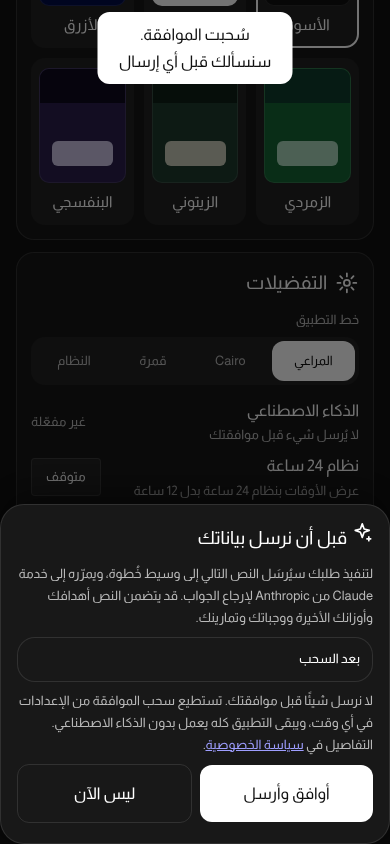
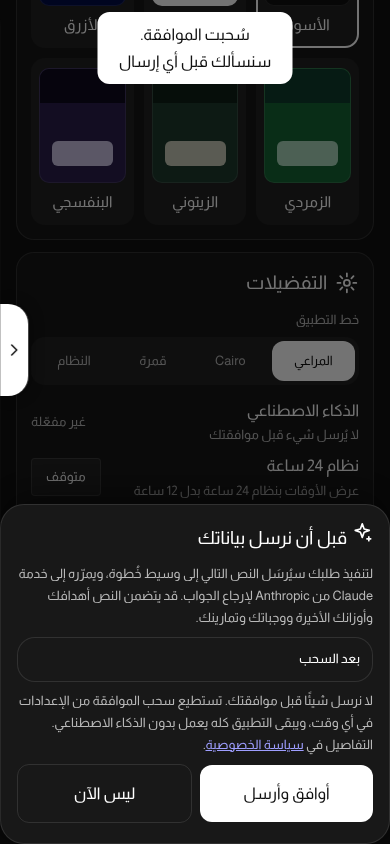
اختصاراتي: لوحة جانبية تُسحب من اليسار بحركة متدرجة مع تعديل الاختصارات
Claude-Session: https://claude.ai/code/session_01KyybtLNcTyHNYDyyNW1Vaq

Changed region(s): [[0.0, 0.3389, 0.0923, 0.4929]]

diff --git a/app/fitness-tracker.html b/app/fitness-tracker.html
@@ -1166,6 +1166,37 @@ html[data-sj] body .x2w .r i{border-style:dashed!important;opacity:.5}
 .sjnp .ico{width:26px;height:26px}
 .sjsr.cur input:focus{outline:0;box-shadow:0 0 0 3px color-mix(in srgb,var(--sj-tx) 30%,transparent)}
 .sjsr.cur input{-moz-appearance:textfield;appearance:textfield}.sjsr.cur input::-webkit-inner-spin-button,.sjsr.cur input::-webkit-outer-spin-button{-webkit-appearance:none;margin:0}
+
+/* ===== لوحة الاختصاراتي الجانبية ===== */
+.sjds{position:fixed;inset:0;z-index:84;background:#000;opacity:0;pointer-events:none;visibility:hidden}
+.sjdw{position:fixed;top:0;bottom:0;left:0;z-index:85;width:min(82vw,330px);--x:0;transform:translate3d(calc(-100% + var(--x)*1px),0,0);will-change:transform;background:var(--sj-s1);color:var(--sj-tx);border-inline-end:1px solid var(--sj-ln);border-radius:0 26px 26px 0;box-shadow:0 0 40px rgba(0,0,0,calc(.35*var(--p,0)));display:none;direction:rtl;touch-action:pan-y}
+.sjdw.show,.sjds.show{display:block}
+.sjds.show{visibility:visible}
+.sjdw.anim{transition:transform .45s cubic-bezier(.22,1.1,.3,1),box-shadow .45s ease}
+.sjds.anim{transition:opacity .4s ease}
+.sjdw .in{height:100%;overflow:auto;padding:calc(env(safe-area-inset-top,0px) + 16px) 14px calc(env(safe-area-inset-bottom,0px) + 90px);overscroll-behavior:contain}
+.sjdw .hd{display:flex;align-items:center;gap:8px;margin-bottom:16px}
+.sjdw .hd b{flex:1;font-size:20px}
+.sjdw .hd button{width:40px;height:40px;border-radius:50%;border:0;background:var(--sj-s2)!important;color:var(--sj-tx)!important;display:grid;place-items:center;padding:0}
+.sjdw .hd button.on{background:var(--sj-btn)!important;color:var(--sj-btnt)!important}
+.sjdw .gr{display:grid;grid-template-columns:1fr 1fr;gap:14px 10px}
+.sjdw .dt{position:relative;display:flex;flex-direction:column;align-items:center;gap:7px;background:none!important;border:0!important;color:var(--sj-tx)!important;font:600 13px/1.35 var(--sj-fa);text-align:center;padding:0!important;width:auto!important;height:auto!important;box-shadow:none!important}
+.sjdw .dt .fi{width:64px;height:64px;border-radius:20px;display:grid;place-items:center;background:var(--sj-s2);border:1.5px solid var(--sj-ln);transition:transform .15s ease}
+.sjdw .dt:active .fi{transform:scale(.94)}
+.sjdw .dt .fi .ico{width:30px;height:30px}
+.sjdw .dt.add .fi{border-style:dashed}
+.sjdw .dt .dx{position:absolute;top:-6px;inset-inline-end:calc(50% - 40px);width:24px;height:24px;border-radius:50%;background:#ef4444;color:#fff;display:grid;place-items:center;border:2px solid var(--sj-s1)}
+.sjdw .dt .dx .ico{width:13px;height:13px}
+.sjdw .dt .dx.pl{background:var(--sj-ok)}
+.sjdw .mv{display:flex;gap:6px}
+.sjdw .mv button{width:30px;height:26px;border-radius:9px;border:0;background:var(--sj-s2)!important;color:var(--sj-tx)!important;display:grid;place-items:center;padding:0}
+.sjdw .mv .ico{width:14px;height:14px}
+.sjdw .hint{color:var(--sj-mu);font-size:13px;margin:-6px 0 14px}
+.sjdh{position:absolute;left:100%;top:36%;width:28px;height:92px;margin:0;padding:0;border:0;border-radius:0 20px 20px 0;background:var(--sj-btn)!important;color:var(--sj-btnt)!important;display:grid;place-items:center;box-shadow:2px 0 14px rgba(0,0,0,.35);touch-action:none}
+.sjdh .ico{width:20px;height:20px;transform:rotate(calc(180deg*var(--p,0)));transition:none}
+.sjdh:after{content:"";position:absolute;inset:-14px -10px -14px 0}
+body.sjnodw .sjdw,body.sjnodw .sjds{display:none!important}
+@media (prefers-reduced-motion:reduce){.sjdw.anim,.sjds.anim{transition:none}}
 </style>
 
 <svg width="0" height="0" style="position:absolute" aria-hidden="true">
@@ -5518,6 +5549,41 @@ document.addEventListener('toggle',ev=>{const d=ev.target;if(d&&d.classList&&d.c
  document.addEventListener('pointerdown',e=>{const t=e.target;if(t&&(t.id==='wk-w'||t.id==='wk-r')&&e.pointerType!=='mouse-skip'){t.setAttribute('inputmode','none');open(t);return}
   if(np&&np.classList.contains('on')&&!np.contains(t))hide()},true);
  new MutationObserver(()=>{if(np&&np.classList.contains('on')&&!document.getElementById('wk-w'))hide()}).observe(document.body,{childList:true,subtree:true});
+})();
+
+
+/* ===== اختصاراتي: لوحة جانبية تُسحب من اليسار ===== */
+(()=>{
+ let W=300,x=0,drag=null,sup=0;const q=a=>document.querySelector(a);
+ const mk=()=>{let d=q('.sjdw');if(d)return d;
+  document.body.insertAdjacentHTML('beforeend','<div class="sjds" aria-hidden="true"></div><aside class="sjdw" role="dialog" aria-label="اختصاراتي"><div class="in"></div><button class="sjdh" type="button" aria-label="فتح اختصاراتي" aria-expanded="false">'+ic('back')+'</button></aside>');
+  const dw=q('.sjdw'),ds=q('.sjds'),h=q('.sjdh');
+  const down=e=>{if(e.button>0)return;W=dw.offsetWidth||300;drag={sx:e.clientX,sy:e.clientY,x0:x,lx:e.clientX,lt:performance.now(),v:0,on:false,id:e.pointerId,src:e.target};if(e.currentTarget===h){try{h.setPointerCapture(e.pointerId)}catch(_){}}};
+  const move=e=>{if(!drag||e.pointerId!==drag.id)return;const dx=e.clientX-drag.sx,dy=e.clientY-drag.sy;
+   if(!drag.on){if(Math.abs(dx)<8||Math.abs(dx)<Math.abs(dy)*1.3)return;drag.on=true;dw.classList.remove('anim');ds.classList.remove('anim');try{dw.setPointerCapture(e.pointerId)}catch(_){}}
+   const t=performance.now();drag.v=(e.clientX-drag.lx)/Math.max(1,t-drag.lt);drag.lx=e.clientX;drag.lt=t;set(drag.x0+dx)};
+  const up=e=>{if(!drag||e.pointerId!==drag.id)return;const g=drag;drag=null;
+   if(g.on){sup=Date.now();const open=g.v>.35?true:g.v<-.35?false:x>W*.45;fin(open)}
+   else if(g.src&&g.src.closest('.sjdh'))fin(x<W*.5);};
+  [h,dw,ds].forEach(el=>{el.addEventListener('pointerdown',down);el.addEventListener('pointermove',move);el.addEventListener('pointerup',up);el.addEventListener('pointercancel',()=>{if(drag){const g=drag;drag=null;fin(x>W*.5)}})});
+  ds.addEventListener('click',()=>{if(Date.now()-sup>250)fin(false)});
+  dw.addEventListener('click',e=>{if(Date.now()-sup<250){e.stopPropagation();e.preventDefault();return}
+   if(e.target.closest('.dt:not(.ed):not(.add):not([data-a=dwadd])')||e.target.closest('[data-a=dwx]'))setTimeout(()=>fin(false),0)},true);
+  document.addEventListener('keydown',e=>{if(e.key==='Escape'&&x>0)fin(false)});
+  return dw};
+ function set(v){const dw=mk(),ds=q('.sjds');x=Math.max(0,Math.min(W,v));const pr=W?x/W:0;dw.style.setProperty('--x',x);dw.style.setProperty('--p',pr);ds.style.opacity=(pr*.5).toFixed(3);
+  dw.classList.toggle('show',true);ds.classList.toggle('show',pr>0);q('.sjdh').setAttribute('aria-expanded',pr>.5?'true':'false')}
+ function fin(open){const dw=mk(),ds=q('.sjds');W=dw.offsetWidth||W;dw.classList.add('anim');ds.classList.add('anim');if(open)body();set(open?W:0);if(!open){ds.style.opacity=0;setTimeout(()=>{if(x===0)ds.classList.remove('show')},420)}}
+ function body(){const dw=mk(),ed=!!UI.dwEd,pk=!!UI.dwPick,sc=scList();let b;
+  if(pk){b='<div class="gr">'+FEATS.filter(f=>sc.indexOf(f.id)<0).map(f=>'<button class="dt" data-a="dwadd" data-id="'+f.id+'" type="button">'+fI(f)+'<span>'+f.t+'</span><i class="dx pl">'+ic('plus')+'</i></button>').join('')+'</div>'}
+  else b='<div class="gr">'+sc.map(id=>{const f=FD[id];return ed?'<div class="dt ed">'+fI(f)+'<span>'+f.t+'</span><i class="dx" data-a="scdel" data-id="'+id+'" role="button" aria-label="حذف">'+ic('x')+'</i><span class="mv"><button type="button" data-a="scmv" data-id="'+id+'" data-d="-1" aria-label="تقديم">'+ic('back')+'</button><button type="button" data-a="scmv" data-id="'+id+'" data-d="1" aria-label="تأخير">'+ic('next')+'</button></span></div>':'<button class="dt" type="button" '+fA(f)+'>'+fI(f)+'<span>'+f.t+'</span></button>'}).join('')+(ed?'<button class="dt add" type="button" data-a="dwpick"><span class="fi">'+ic('plus')+'</span><span>إضافة</span></button>':'')+'</div>';
+  dw.querySelector('.in').innerHTML='<div class="hd"><b>'+(pk?'أضف اختصارًا':'اختصاراتي')+'</b>'+(pk?'<button type="button" data-a="dwpick" aria-label="رجوع">'+ic('next')+'</button>':'<button type="button" class="'+(ed?'on':'')+'" data-a="dwed" aria-label="'+(ed?'تم':'تعديل الاختصارات')+'">'+ic(ed?'check':'gear')+'</button>')+'<button type="button" data-a="dwx" aria-label="إغلاق">'+ic('x')+'</button></div>'+(ed&&!pk?'<div class="hint">احذف أو غيّر الترتيب أو أضف.</div>':'')+b}
+ window.dwOpen=ed=>{mk();if(ed){UI.dwEd=true;UI.dwPick=false}W=q('.sjdw').offsetWidth||W;fin(true)};
+ window.dwClose=()=>{if(q('.sjdw'))fin(false)};
+ /* مزامنة المحتوى والإظهار بعد كل رسم */
+ const R=render;render=function(){R.apply(this,arguments);try{const dw=mk(),on=!!q('#nav .pill2')&&!q('.sjwel')&&S.sub!=='wk'&&!locked();document.body.classList.toggle('sjnodw',!on);if(on){if(!dw.classList.contains('show'))set(x);body()}else if(x>0)set(0)}catch(e){lg(e)}};
+ Object.assign(ACT,{drop:b=>{dwOpen(b.dataset.v==='edit');return false},dwed:()=>{UI.dwEd=!UI.dwEd;UI.dwPick=false},dwpick:()=>{UI.dwPick=!UI.dwPick},dwadd:b=>{const a=scList();if(a.indexOf(b.dataset.id)<0)a.push(b.dataset.id);S.sc=a;UI.dwPick=false;save();cmSyncSet()},dwx:()=>false});
+ render();
 })();
 
 (async()=>{

diff --git a/pwa/index.html b/pwa/index.html
@@ -1166,6 +1166,37 @@ html[data-sj] body .x2w .r i{border-style:dashed!important;opacity:.5}
 .sjnp .ico{width:26px;height:26px}
 .sjsr.cur input:focus{outline:0;box-shadow:0 0 0 3px color-mix(in srgb,var(--sj-tx) 30%,transparent)}
 .sjsr.cur input{-moz-appearance:textfield;appearance:textfield}.sjsr.cur input::-webkit-inner-spin-button,.sjsr.cur input::-webkit-outer-spin-button{-webkit-appearance:none;margin:0}
+
+/* ===== لوحة الاختصاراتي الجانبية ===== */
+.sjds{position:fixed;inset:0;z-index:84;background:#000;opacity:0;pointer-events:none;visibility:hidden}
+.sjdw{position:fixed;top:0;bottom:0;left:0;z-index:85;width:min(82vw,330px);--x:0;transform:translate3d(calc(-100% + var(--x)*1px),0,0);will-change:transform;background:var(--sj-s1);color:var(--sj-tx);border-inline-end:1px solid var(--sj-ln);border-radius:0 26px 26px 0;box-shadow:0 0 40px rgba(0,0,0,calc(.35*var(--p,0)));display:none;direction:rtl;touch-action:pan-y}
+.sjdw.show,.sjds.show{display:block}
+.sjds.show{visibility:visible}
+.sjdw.anim{transition:transform .45s cubic-bezier(.22,1.1,.3,1),box-shadow .45s ease}
+.sjds.anim{transition:opacity .4s ease}
+.sjdw .in{height:100%;overflow:auto;padding:calc(env(safe-area-inset-top,0px) + 16px) 14px calc(env(safe-area-inset-bottom,0px) + 90px);overscroll-behavior:contain}
+.sjdw .hd{display:flex;align-items:center;gap:8px;margin-bottom:16px}
+.sjdw .hd b{flex:1;font-size:20px}
+.sjdw .hd button{width:40px;height:40px;border-radius:50%;border:0;background:var(--sj-s2)!important;color:var(--sj-tx)!important;display:grid;place-items:center;padding:0}
+.sjdw .hd button.on{background:var(--sj-btn)!important;color:var(--sj-btnt)!important}
+.sjdw .gr{display:grid;grid-template-columns:1fr 1fr;gap:14px 10px}
+.sjdw .dt{position:relative;display:flex;flex-direction:column;align-items:center;gap:7px;background:none!important;border:0!important;color:var(--sj-tx)!important;font:600 13px/1.35 var(--sj-fa);text-align:center;padding:0!important;width:auto!important;height:auto!important;box-shadow:none!important}
+.sjdw .dt .fi{width:64px;height:64px;border-radius:20px;display:grid;place-items:center;background:var(--sj-s2);border:1.5px solid var(--sj-ln);transition:transform .15s ease}
+.sjdw .dt:active .fi{transform:scale(.94)}
+.sjdw .dt .fi .ico{width:30px;height:30px}
+.sjdw .dt.add .fi{border-style:dashed}
+.sjdw .dt .dx{position:absolute;top:-6px;inset-inline-end:calc(50% - 40px);width:24px;height:24px;border-radius:50%;background:#ef4444;color:#fff;display:grid;place-items:center;border:2px solid var(--sj-s1)}
+.sjdw .dt .dx .ico{width:13px;height:13px}
+.sjdw .dt .dx.pl{background:var(--sj-ok)}
+.sjdw .mv{display:flex;gap:6px}
+.sjdw .mv button{width:30px;height:26px;border-radius:9px;border:0;background:var(--sj-s2)!important;color:var(--sj-tx)!important;display:grid;place-items:center;padding:0}
+.sjdw .mv .ico{width:14px;height:14px}
+.sjdw .hint{color:var(--sj-mu);font-size:13px;margin:-6px 0 14px}
+.sjdh{position:absolute;left:100%;top:36%;width:28px;height:92px;margin:0;padding:0;border:0;border-radius:0 20px 20px 0;background:var(--sj-btn)!important;color:var(--sj-btnt)!important;display:grid;place-items:center;box-shadow:2px 0 14px rgba(0,0,0,.35);touch-action:none}
+.sjdh .ico{width:20px;height:20px;transform:rotate(calc(180deg*var(--p,0)));transition:none}
+.sjdh:after{content:"";position:absolute;inset:-14px -10px -14px 0}
+body.sjnodw .sjdw,body.sjnodw .sjds{display:none!important}
+@media (prefers-reduced-motion:reduce){.sjdw.anim,.sjds.anim{transition:none}}
 </style>
 <script src="config.js"></script>
 
@@ -5519,6 +5550,41 @@ document.addEventListener('toggle',ev=>{const d=ev.target;if(d&&d.classList&&d.c
  document.addEventListener('pointerdown',e=>{const t=e.target;if(t&&(t.id==='wk-w'||t.id==='wk-r')&&e.pointerType!=='mouse-skip'){t.setAttribute('inputmode','none');open(t);return}
   if(np&&np.classList.contains('on')&&!np.contains(t))hide()},true);
  new MutationObserver(()=>{if(np&&np.classList.contains('on')&&!document.getElementById('wk-w'))hide()}).observe(document.body,{childList:true,subtree:true});
+})();
+
+
+/* ===== اختصاراتي: لوحة جانبية تُسحب من اليسار ===== */
+(()=>{
+ let W=300,x=0,drag=null,sup=0;const q=a=>document.querySelector(a);
+ const mk=()=>{let d=q('.sjdw');if(d)return d;
+  document.body.insertAdjacentHTML('beforeend','<div class="sjds" aria-hidden="true"></div><aside class="sjdw" role="dialog" aria-label="اختصاراتي"><div class="in"></div><button class="sjdh" type="button" aria-label="فتح اختصاراتي" aria-expanded="false">'+ic('back')+'</button></aside>');
+  const dw=q('.sjdw'),ds=q('.sjds'),h=q('.sjdh');
+  const down=e=>{if(e.button>0)return;W=dw.offsetWidth||300;drag={sx:e.clientX,sy:e.clientY,x0:x,lx:e.clientX,lt:performance.now(),v:0,on:false,id:e.pointerId,src:e.target};if(e.currentTarget===h){try{h.setPointerCapture(e.pointerId)}catch(_){}}};
+  const move=e=>{if(!drag||e.pointerId!==drag.id)return;const dx=e.clientX-drag.sx,dy=e.clientY-drag.sy;
+   if(!drag.on){if(Math.abs(dx)<8||Math.abs(dx)<Math.abs(dy)*1.3)return;drag.on=true;dw.classList.remove('anim');ds.classList.remove('anim');try{dw.setPointerCapture(e.pointerId)}catch(_){}}
+   const t=performance.now();drag.v=(e.clientX-drag.lx)/Math.max(1,t-drag.lt);drag.lx=e.clientX;drag.lt=t;set(drag.x0+dx)};
+  const up=e=>{if(!drag||e.pointerId!==drag.id)return;const g=drag;drag=null;
+   if(g.on){sup=Date.now();const open=g.v>.35?true:g.v<-.35?false:x>W*.45;fin(open)}
+   else if(g.src&&g.src.closest('.sjdh'))fin(x<W*.5);};
+  [h,dw,ds].forEach(el=>{el.addEventListener('pointerdown',down);el.addEventListener('pointermove',move);el.addEventListener('pointerup',up);el.addEventListener('pointercancel',()=>{if(drag){const g=drag;drag=null;fin(x>W*.5)}})});
+  ds.addEventListener('click',()=>{if(Date.now()-sup>250)fin(false)});
+  dw.addEventListener('click',e=>{if(Date.now()-sup<250){e.stopPropagation();e.preventDefault();return}
+   if(e.target.closest('.dt:not(.ed):not(.add):not([data-a=dwadd])')||e.target.closest('[data-a=dwx]'))setTimeout(()=>fin(false),0)},true);
+  document.addEventListener('keydown',e=>{if(e.key==='Escape'&&x>0)fin(false)});
+  return dw};
+ function set(v){const dw=mk(),ds=q('.sjds');x=Math.max(0,Math.min(W,v));const pr=W?x/W:0;dw.style.setProperty('--x',x);dw.style.setProperty('--p',pr);ds.style.opacity=(pr*.5).toFixed(3);
+  dw.classList.toggle('show',true);ds.classList.toggle('show',pr>0);q('.sjdh').setAttribute('aria-expanded',pr>.5?'true':'false')}
+ function fin(open){const dw=mk(),ds=q('.sjds');W=dw.offsetWidth||W;dw.classList.add('anim');ds.classList.add('anim');if(open)body();set(open?W:0);if(!open){ds.style.opacity=0;setTimeout(()=>{if(x===0)ds.classList.remove('show')},420)}}
+ function body(){const dw=mk(),ed=!!UI.dwEd,pk=!!UI.dwPick,sc=scList();let b;
+  if(pk){b='<div class="gr">'+FEATS.filter(f=>sc.indexOf(f.id)<0).map(f=>'<button class="dt" data-a="dwadd" data-id="'+f.id+'" type="button">'+fI(f)+'<span>'+f.t+'</span><i class="dx pl">'+ic('plus')+'</i></button>').join('')+'</div>'}
+  else b='<div class="gr">'+sc.map(id=>{const f=FD[id];return ed?'<div class="dt ed">'+fI(f)+'<span>'+f.t+'</span><i class="dx" data-a="scdel" data-id="'+id+'" role="button" aria-label="حذف">'+ic('x')+'</i><span class="mv"><button type="button" data-a="scmv" data-id="'+id+'" data-d="-1" aria-label="تقديم">'+ic('back')+'</button><button type="button" data-a="scmv" data-id="'+id+'" data-d="1" aria-label="تأخير">'+ic('next')+'</button></span></div>':'<button class="dt" type="button" '+fA(f)+'>'+fI(f)+'<span>'+f.t+'</span></button>'}).join('')+(ed?'<button class="dt add" type="button" data-a="dwpick"><span class="fi">'+ic('plus')+'</span><span>إضافة</span></button>':'')+'</div>';
+  dw.querySelector('.in').innerHTML='<div class="hd"><b>'+(pk?'أضف اختصارًا':'اختصاراتي')+'</b>'+(pk?'<button type="button" data-a="dwpick" aria-label="رجوع">'+ic('next')+'</button>':'<button type="button" class="'+(ed?'on':'')+'" data-a="dwed" aria-label="'+(ed?'تم':'تعديل الاختصارات')+'">'+ic(ed?'check':'gear')+'</button>')+'<button type="button" data-a="dwx" aria-label="إغلاق">'+ic('x')+'</button></div>'+(ed&&!pk?'<div class="hint">احذف أو غيّر الترتيب أو أضف.</div>':'')+b}
+ window.dwOpen=ed=>{mk();if(ed){UI.dwEd=true;UI.dwPick=false}W=q('.sjdw').offsetWidth||W;fin(true)};
+ window.dwClose=()=>{if(q('.sjdw'))fin(false)};
+ /* مزامنة المحتوى والإظهار بعد كل رسم */
+ const R=render;render=function(){R.apply(this,arguments);try{const dw=mk(),on=!!q('#nav .pill2')&&!q('.sjwel')&&S.sub!=='wk'&&!locked();document.body.classList.toggle('sjnodw',!on);if(on){if(!dw.classList.contains('show'))set(x);body()}else if(x>0)set(0)}catch(e){lg(e)}};
+ Object.assign(ACT,{drop:b=>{dwOpen(b.dataset.v==='edit');return false},dwed:()=>{UI.dwEd=!UI.dwEd;UI.dwPick=false},dwpick:()=>{UI.dwPick=!UI.dwPick},dwadd:b=>{const a=scList();if(a.indexOf(b.dataset.id)<0)a.push(b.dataset.id);S.sc=a;UI.dwPick=false;save();cmSyncSet()},dwx:()=>false});
+ render();
 })();
 
 (async()=>{

diff --git a/www/index.html b/www/index.html
@@ -1166,6 +1166,37 @@ html[data-sj] body .x2w .r i{border-style:dashed!important;opacity:.5}
 .sjnp .ico{width:26px;height:26px}
 .sjsr.cur input:focus{outline:0;box-shadow:0 0 0 3px color-mix(in srgb,var(--sj-tx) 30%,transparent)}
 .sjsr.cur input{-moz-appearance:textfield;appearance:textfield}.sjsr.cur input::-webkit-inner-spin-button,.sjsr.cur input::-webkit-outer-spin-button{-webkit-appearance:none;margin:0}
+
+/* ===== لوحة الاختصاراتي الجانبية ===== */
+.sjds{position:fixed;inset:0;z-index:84;background:#000;opacity:0;pointer-events:none;visibility:hidden}
+.sjdw{position:fixed;top:0;bottom:0;left:0;z-index:85;width:min(82vw,330px);--x:0;transform:translate3d(calc(-100% + var(--x)*1px),0,0);will-change:transform;background:var(--sj-s1);color:var(--sj-tx);border-inline-end:1px solid var(--sj-ln);border-radius:0 26px 26px 0;box-shadow:0 0 40px rgba(0,0,0,calc(.35*var(--p,0)));display:none;direction:rtl;touch-action:pan-y}
+.sjdw.show,.sjds.show{display:block}
+.sjds.show{visibility:visible}
+.sjdw.anim{transition:transform .45s cubic-bezier(.22,1.1,.3,1),box-shadow .45s ease}
+.sjds.anim{transition:opacity .4s ease}
+.sjdw .in{height:100%;overflow:auto;padding:calc(env(safe-area-inset-top,0px) + 16px) 14px calc(env(safe-area-inset-bottom,0px) + 90px);overscroll-behavior:contain}
+.sjdw .hd{display:flex;align-items:center;gap:8px;margin-bottom:16px}
+.sjdw .hd b{flex:1;font-size:20px}
+.sjdw .hd button{width:40px;height:40px;border-radius:50%;border:0;background:var(--sj-s2)!important;color:var(--sj-tx)!important;display:grid;place-items:center;padding:0}
+.sjdw .hd button.on{background:var(--sj-btn)!important;color:var(--sj-btnt)!important}
+.sjdw .gr{display:grid;grid-template-columns:1fr 1fr;gap:14px 10px}
+.sjdw .dt{position:relative;display:flex;flex-direction:column;align-items:center;gap:7px;background:none!important;border:0!important;color:var(--sj-tx)!important;font:600 13px/1.35 var(--sj-fa);text-align:center;padding:0!important;width:auto!important;height:auto!important;box-shadow:none!important}
+.sjdw .dt .fi{width:64px;height:64px;border-radius:20px;display:grid;place-items:center;background:var(--sj-s2);border:1.5px solid var(--sj-ln);transition:transform .15s ease}
+.sjdw .dt:active .fi{transform:scale(.94)}
+.sjdw .dt .fi .ico{width:30px;height:30px}
+.sjdw .dt.add .fi{border-style:dashed}
+.sjdw .dt .dx{position:absolute;top:-6px;inset-inline-end:calc(50% - 40px);width:24px;height:24px;border-radius:50%;background:#ef4444;color:#fff;display:grid;place-items:center;border:2px solid var(--sj-s1)}
+.sjdw .dt .dx .ico{width:13px;height:13px}
+.sjdw .dt .dx.pl{background:var(--sj-ok)}
+.sjdw .mv{display:flex;gap:6px}
+.sjdw .mv button{width:30px;height:26px;border-radius:9px;border:0;background:var(--sj-s2)!important;color:var(--sj-tx)!important;display:grid;place-items:center;padding:0}
+.sjdw .mv .ico{width:14px;height:14px}
+.sjdw .hint{color:var(--sj-mu);font-size:13px;margin:-6px 0 14px}
+.sjdh{position:absolute;left:100%;top:36%;width:28px;height:92px;margin:0;padding:0;border:0;border-radius:0 20px 20px 0;background:var(--sj-btn)!important;color:var(--sj-btnt)!important;display:grid;place-items:center;box-shadow:2px 0 14px rgba(0,0,0,.35);touch-action:none}
+.sjdh .ico{width:20px;height:20px;transform:rotate(calc(180deg*var(--p,0)));transition:none}
+.sjdh:after{content:"";position:absolute;inset:-14px -10px -14px 0}
+body.sjnodw .sjdw,body.sjnodw .sjds{display:none!important}
+@media (prefers-reduced-motion:reduce){.sjdw.anim,.sjds.anim{transition:none}}
 </style>
 <script src="config.js"></script>
 
@@ -5519,6 +5550,41 @@ document.addEventListener('toggle',ev=>{const d=ev.target;if(d&&d.classList&&d.c
  document.addEventListener('pointerdown',e=>{const t=e.target;if(t&&(t.id==='wk-w'||t.id==='wk-r')&&e.pointerType!=='mouse-skip'){t.setAttribute('inputmode','none');open(t);return}
   if(np&&np.classList.contains('on')&&!np.contains(t))hide()},true);
  new MutationObserver(()=>{if(np&&np.classList.contains('on')&&!document.getElementById('wk-w'))hide()}).observe(document.body,{childList:true,subtree:true});
+})();
+
+
+/* ===== اختصاراتي: لوحة جانبية تُسحب من اليسار ===== */
+(()=>{
+ let W=300,x=0,drag=null,sup=0;const q=a=>document.querySelector(a);
+ const mk=()=>{let d=q('.sjdw');if(d)return d;
+  document.body.insertAdjacentHTML('beforeend','<div class="sjds" aria-hidden="true"></div><aside class="sjdw" role="dialog" aria-label="اختصاراتي"><div class="in"></div><button class="sjdh" type="button" aria-label="فتح اختصاراتي" aria-expanded="false">'+ic('back')+'</button></aside>');
+  const dw=q('.sjdw'),ds=q('.sjds'),h=q('.sjdh');
+  const down=e=>{if(e.button>0)return;W=dw.offsetWidth||300;drag={sx:e.clientX,sy:e.clientY,x0:x,lx:e.clientX,lt:performance.now(),v:0,on:false,id:e.pointerId,src:e.target};if(e.currentTarget===h){try{h.setPointerCapture(e.pointerId)}catch(_){}}};
+  const move=e=>{if(!drag||e.pointerId!==drag.id)return;const dx=e.clientX-drag.sx,dy=e.clientY-drag.sy;
+   if(!drag.on){if(Math.abs(dx)<8||Math.abs(dx)<Math.abs(dy)*1.3)return;drag.on=true;dw.classList.remove('anim');ds.classList.remove('anim');try{dw.setPointerCapture(e.pointerId)}catch(_){}}
+   const t=performance.now();drag.v=(e.clientX-drag.lx)/Math.max(1,t-drag.lt);drag.lx=e.clientX;drag.lt=t;set(drag.x0+dx)};
+  const up=e=>{if(!drag||e.pointerId!==drag.id)return;const g=drag;drag=null;
+   if(g.on){sup=Date.now();const open=g.v>.35?true:g.v<-.35?false:x>W*.45;fin(open)}
+   else if(g.src&&g.src.closest('.sjdh'))fin(x<W*.5);};
+  [h,dw,ds].forEach(el=>{el.addEventListener('pointerdown',down);el.addEventListener('pointermove',move);el.addEventListener('pointerup',up);el.addEventListener('pointercancel',()=>{if(drag){const g=drag;drag=null;fin(x>W*.5)}})});
+  ds.addEventListener('click',()=>{if(Date.now()-sup>250)fin(false)});
+  dw.addEventListener('click',e=>{if(Date.now()-sup<250){e.stopPropagation();e.preventDefault();return}
+   if(e.target.closest('.dt:not(.ed):not(.add):not([data-a=dwadd])')||e.target.closest('[data-a=dwx]'))setTimeout(()=>fin(false),0)},true);
+  document.addEventListener('keydown',e=>{if(e.key==='Escape'&&x>0)fin(false)});
+  return dw};
+ function set(v){const dw=mk(),ds=q('.sjds');x=Math.max(0,Math.min(W,v));const pr=W?x/W:0;dw.style.setProperty('--x',x);dw.style.setProperty('--p',pr);ds.style.opacity=(pr*.5).toFixed(3);
+  dw.classList.toggle('show',true);ds.classList.toggle('show',pr>0);q('.sjdh').setAttribute('aria-expanded',pr>.5?'true':'false')}
+ function fin(open){const dw=mk(),ds=q('.sjds');W=dw.offsetWidth||W;dw.classList.add('anim');ds.classList.add('anim');if(open)body();set(open?W:0);if(!open){ds.style.opacity=0;setTimeout(()=>{if(x===0)ds.classList.remove('show')},420)}}
+ function body(){const dw=mk(),ed=!!UI.dwEd,pk=!!UI.dwPick,sc=scList();let b;
+  if(pk){b='<div class="gr">'+FEATS.filter(f=>sc.indexOf(f.id)<0).map(f=>'<button class="dt" data-a="dwadd" data-id="'+f.id+'" type="button">'+fI(f)+'<span>'+f.t+'</span><i class="dx pl">'+ic('plus')+'</i></button>').join('')+'</div>'}
+  else b='<div class="gr">'+sc.map(id=>{const f=FD[id];return ed?'<div class="dt ed">'+fI(f)+'<span>'+f.t+'</span><i class="dx" data-a="scdel" data-id="'+id+'" role="button" aria-label="حذف">'+ic('x')+'</i><span class="mv"><button type="button" data-a="scmv" data-id="'+id+'" data-d="-1" aria-label="تقديم">'+ic('back')+'</button><button type="button" data-a="scmv" data-id="'+id+'" data-d="1" aria-label="تأخير">'+ic('next')+'</button></span></div>':'<button class="dt" type="button" '+fA(f)+'>'+fI(f)+'<span>'+f.t+'</span></button>'}).join('')+(ed?'<button class="dt add" type="button" data-a="dwpick"><span class="fi">'+ic('plus')+'</span><span>إضافة</span></button>':'')+'</div>';
+  dw.querySelector('.in').innerHTML='<div class="hd"><b>'+(pk?'أضف اختصارًا':'اختصاراتي')+'</b>'+(pk?'<button type="button" data-a="dwpick" aria-label="رجوع">'+ic('next')+'</button>':'<button type="button" class="'+(ed?'on':'')+'" data-a="dwed" aria-label="'+(ed?'تم':'تعديل الاختصارات')+'">'+ic(ed?'check':'gear')+'</button>')+'<button type="button" data-a="dwx" aria-label="إغلاق">'+ic('x')+'</button></div>'+(ed&&!pk?'<div class="hint">احذف أو غيّر الترتيب أو أضف.</div>':'')+b}
+ window.dwOpen=ed=>{mk();if(ed){UI.dwEd=true;UI.dwPick=false}W=q('.sjdw').offsetWidth||W;fin(true)};
+ window.dwClose=()=>{if(q('.sjdw'))fin(false)};
+ /* مزامنة المحتوى والإظهار بعد كل رسم */
+ const R=render;render=function(){R.apply(this,arguments);try{const dw=mk(),on=!!q('#nav .pill2')&&!q('.sjwel')&&S.sub!=='wk'&&!locked();document.body.classList.toggle('sjnodw',!on);if(on){if(!dw.classList.contains('show'))set(x);body()}else if(x>0)set(0)}catch(e){lg(e)}};
+ Object.assign(ACT,{drop:b=>{dwOpen(b.dataset.v==='edit');return false},dwed:()=>{UI.dwEd=!UI.dwEd;UI.dwPick=false},dwpick:()=>{UI.dwPick=!UI.dwPick},dwadd:b=>{const a=scList();if(a.indexOf(b.dataset.id)<0)a.push(b.dataset.id);S.sc=a;UI.dwPick=false;save();cmSyncSet()},dwx:()=>false});
+ render();
 })();
 
 (async()=>{

diff --git a/tests/drawer.e2e.js b/tests/drawer.e2e.js
@@ -1,0 +1,19 @@
+/* لوحة «اختصاراتي» الجانبية: مقبض يسار، سحب متدرّج، فتح/إغلاق، تعديل (حذف، إضافة، ترتيب). بيانات اصطناعية. */
+const {chromium}=require('playwright'),path=require('path');
+const file=path.resolve(process.argv[2]||path.join(__dirname,'../www/index.html'));
+let fail=0,pass=0;const ok=(c,m,x)=>{if(c){pass++;console.log('  ok   '+m)}else{fail++;console.log('  FAIL '+m+(x?'  ['+x+']':''))}};
+const X=p=>p.evaluate(()=>+getComputedStyle(document.querySelector('.sjdw')).getPropertyValue('--x'));
+(async()=>{const b=await chromium.launch();const p=await(await b.newContext({viewport:{width:390,height:844}})).newPage();const er=[];p.on('pageerror',e=>er.push(e.message));
+ await p.goto('file://'+file);await p.waitForTimeout(400);await p.evaluate(()=>{S.prof.ob=1;S.prof.name='م';save();render()});await p.waitForTimeout(200);
+ const h=await p.evaluate(()=>{const r=document.querySelector('.sjdh').getBoundingClientRect();return[r.x+r.width/2,r.y+r.height/2,r.x]});
+ ok(h[2]<=1&&await X(p)===0,'المقبض ظاهر على الحافة اليسرى واللوحة مغلقة');
+ await p.mouse.move(h[0],h[1]);await p.mouse.down();await p.mouse.move(h[0]+60,h[1]);await p.mouse.move(h[0]+110,h[1]);
+ const mid=await X(p);ok(mid>60&&mid<200,'اللوحة تتبع الإصبع أثناء السحب',mid);
+ await p.mouse.up();await p.waitForTimeout(700);const op=await X(p);ok(op>250,'تُكمل الفتح عند تجاوز منتصف المسافة',op);
+ await p.click('.sjdw [data-a=dwed]');await p.click('.sjdw [data-a=scdel]');const n1=await p.evaluate(()=>scList().length);ok(n1===5,'حذف اختصار',n1);
+ await p.click('.sjdw [data-a=dwpick]');await p.click('.sjdw [data-a=dwadd]');ok(await p.evaluate(()=>scList().length)===6,'إضافة اختصار');
+ const f=await p.evaluate(()=>scList()[0]);await p.click('.sjdw [data-a=scmv][data-d="1"]');ok(await p.evaluate(()=>scList()[1])===f,'تغيير الترتيب');
+ await p.click('.sjdw [data-a=dwed]');await p.click('.sjdw .dt');await p.waitForTimeout(700);ok(await X(p)===0,'اختيار اختصار يغلق اللوحة وينتقل');
+ await p.mouse.move(h[0],h[1]);await p.mouse.down();await p.mouse.move(h[0]+30,h[1]);await p.waitForTimeout(120);await p.mouse.move(h[0]+40,h[1]);await p.waitForTimeout(120);await p.mouse.up();await p.waitForTimeout(700);ok(await X(p)===0,'سحب قصير يعيد اللوحة مغلقة');
+ ok(er.length===0,'لا أخطاء سكربت',er.join('|'));
+ await b.close();console.log(pass+' ناجح، '+fail+' فاشل');process.exit(fail?1:0)})();
